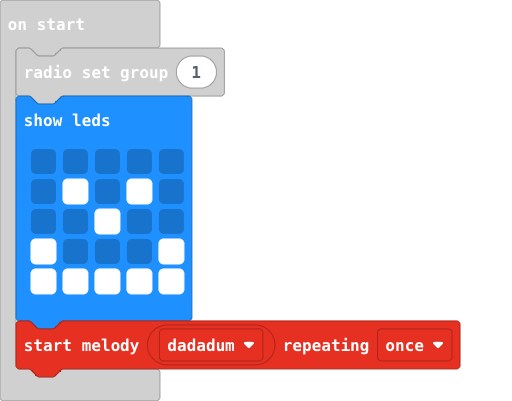
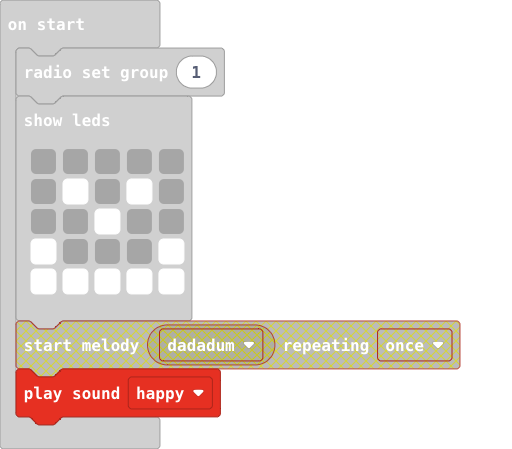
Update main.blocks, main.ts

diff --git a/main.ts b/main.ts
@@ -25,7 +25,7 @@ basic.showLeds(`
     # . . . #
     # # # # #
     `)
-music.startMelody(music.builtInMelody(Melodies.Dadadadum), MelodyOptions.Once)
+soundExpression.happy.play()
 basic.forever(function () {
 	
 })
